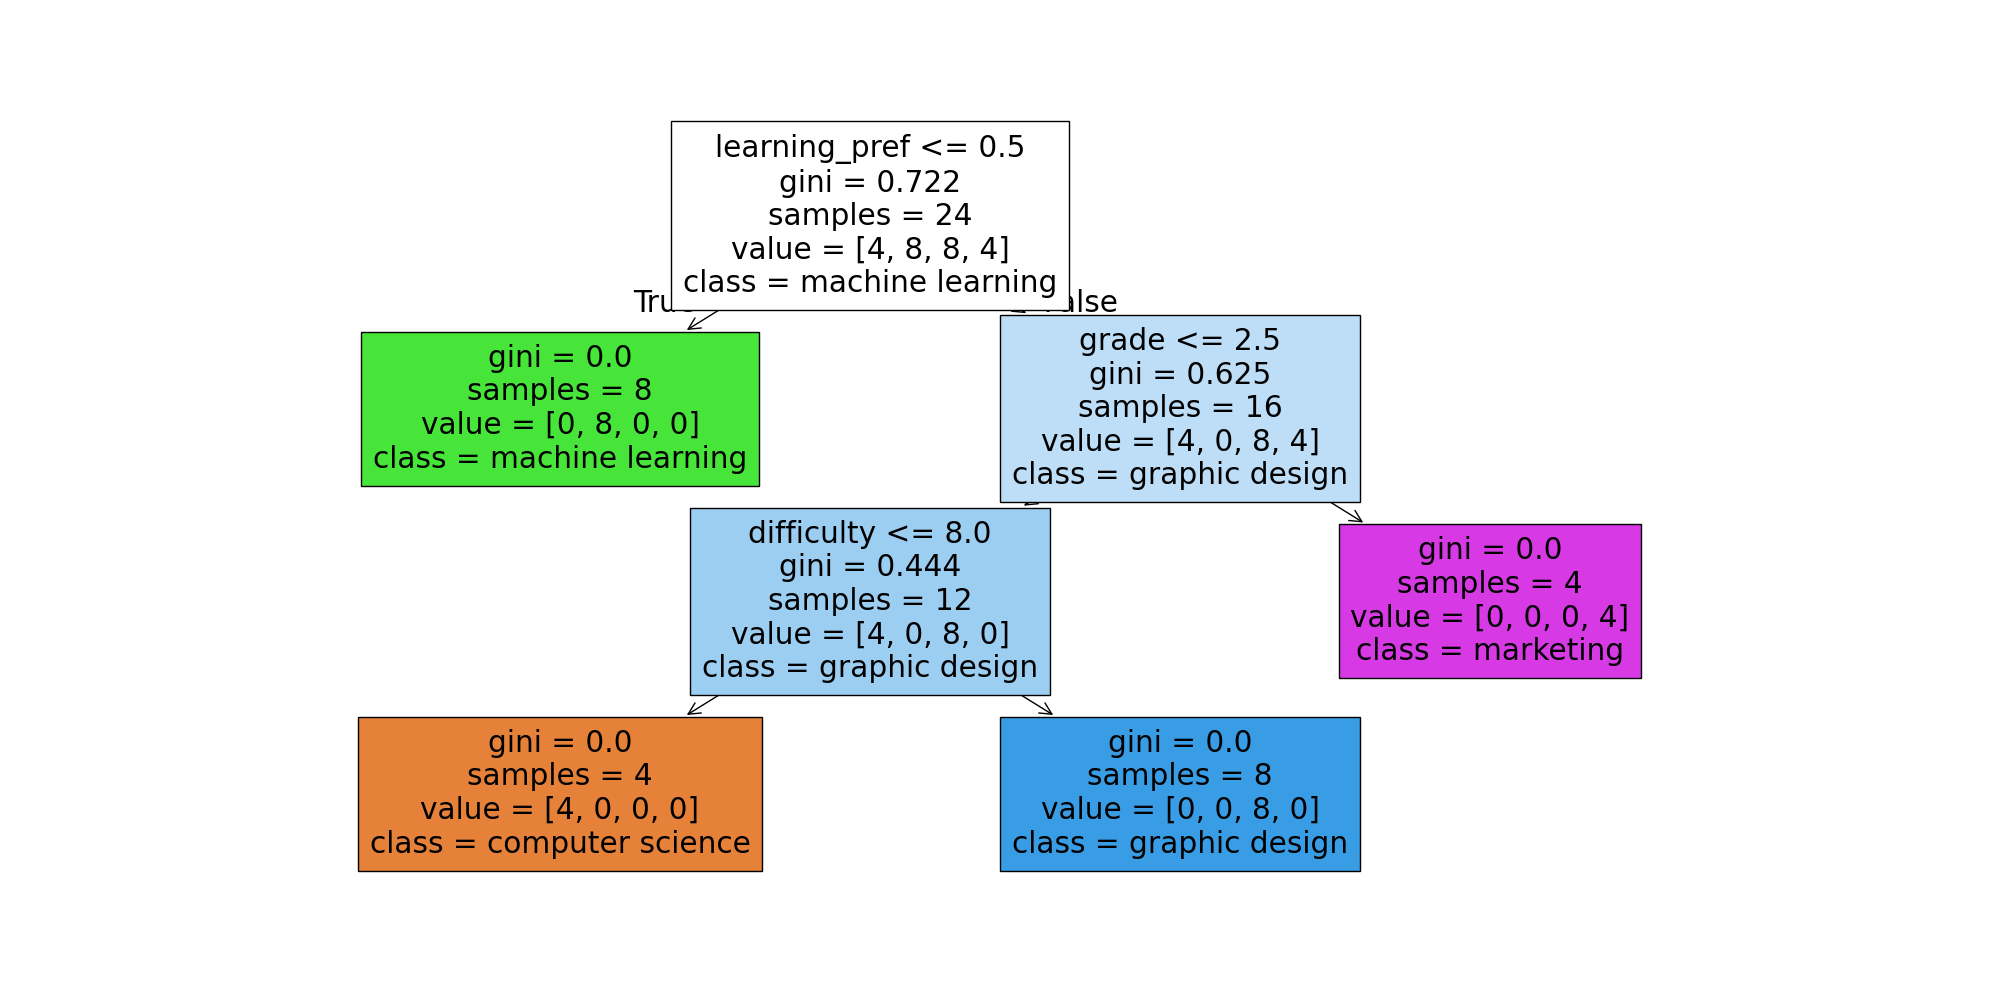
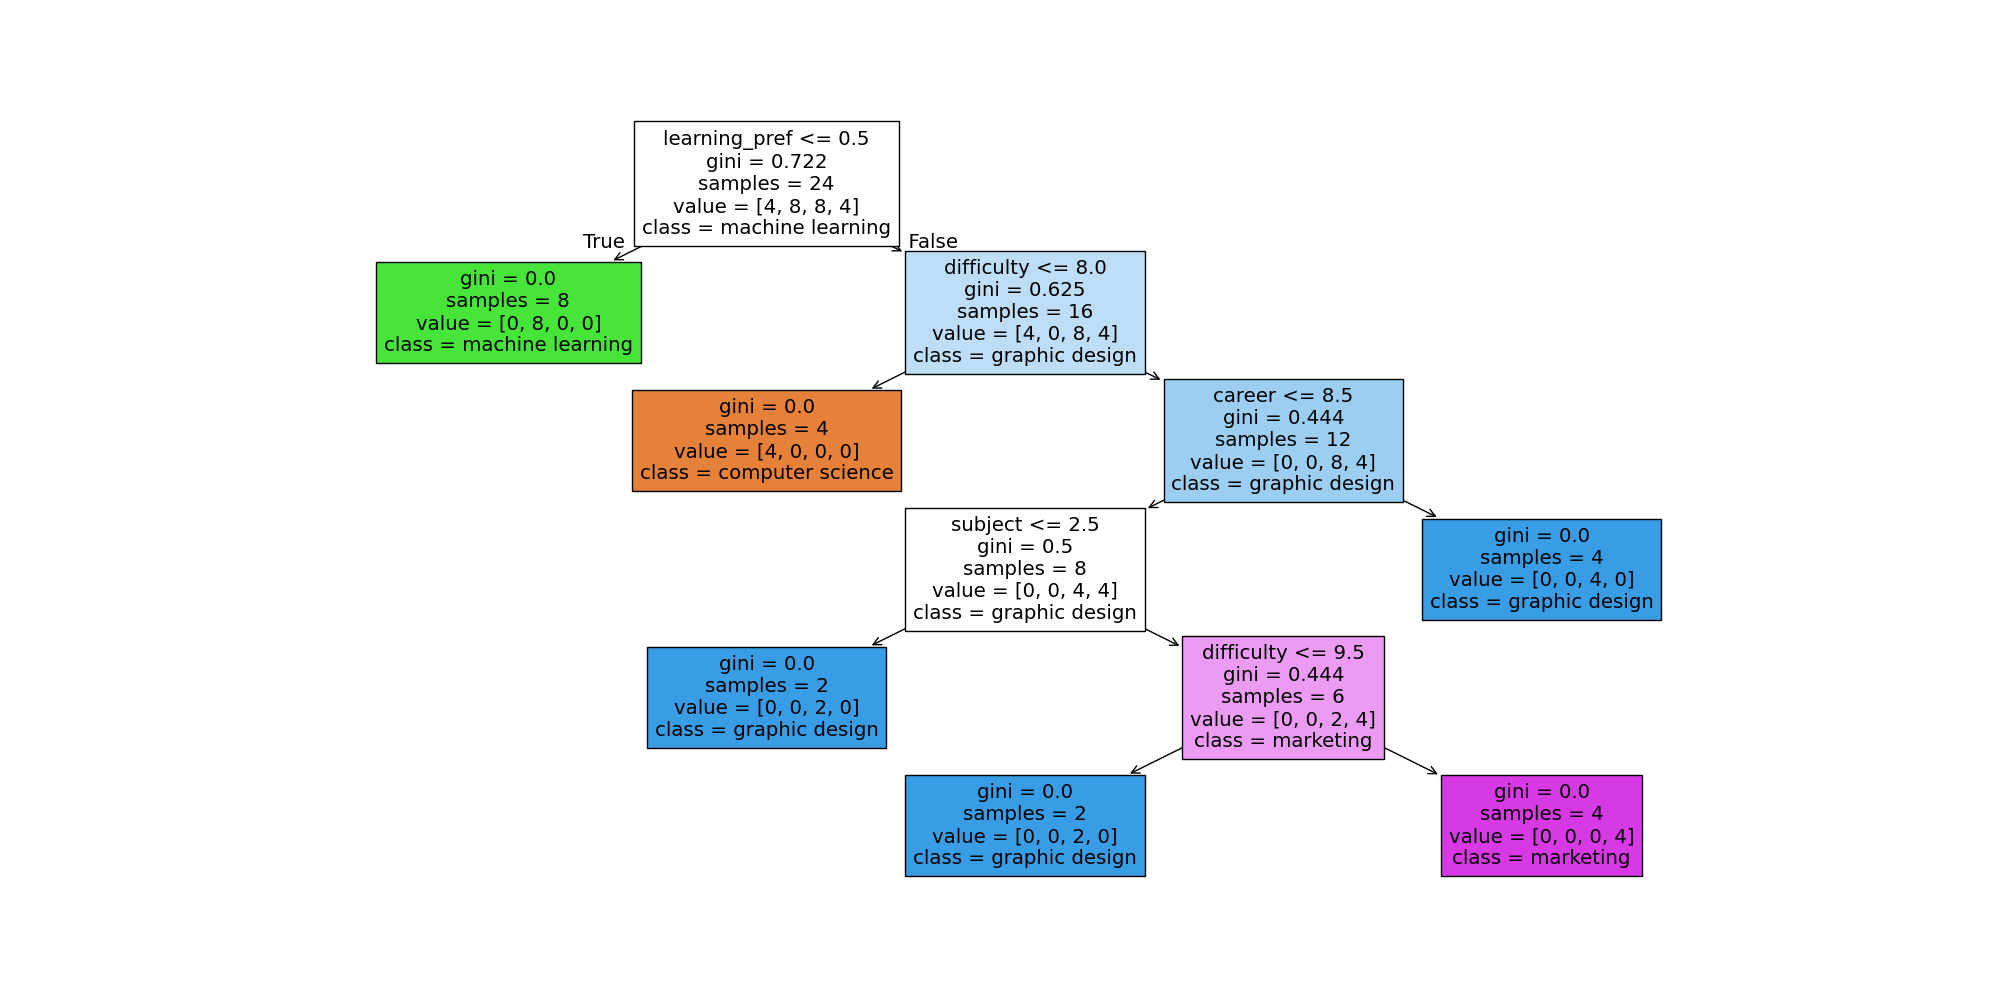
added things

Changed region(s): [[0.155, 0.124, 0.837, 0.899], [0.713, 0.775, 0.837, 0.899]]

diff --git a/vue/chatbot/src/components/chatBox.vue b/vue/chatbot/src/components/chatBox.vue
@@ -78,7 +78,7 @@ export default {
                 body: JSON.stringify({
                     //send only up to the last 10 user messages
                     //message: 'current message: ' +message[0] + ' | BotMessageLog(you): ' + chatlogBot.value + ' | UserMessageLog: ' + chatlogUser.value + ' | do not give me the logs and keep replies short'
-                    message: 'respond to this message(response is sent to user)response should be 5 sentence max unless asked otherwise also act like a very charasmatic wingman:' +message[0] + ' | UserMessageLog: ' + chatlogUser.value
+                    message: 'respond to this message(response is sent to user)response should be 5 sentence max unless asked otherwise also act like a personal assistant:' +message[0] + ' | UserMessageLog: ' + chatlogUser.value
                 })
                 })
                 .then(response => response.json())

diff --git a/decisionTree.py b/decisionTree.py
@@ -6,12 +6,10 @@ import numpy as np
 # Sample data (replace this with your actual dataset)
 df = pd.read_csv('survey.csv')
 
-df.columns = ['grade', 'subject', 'learning_pref', 'career', 'group_pref','difficulty', 'Email', 'elective']
+
+df.columns = ['timestamp','grade', 'subject', 'learning_pref', 'career', 'group_pref','difficulty', 'elective', 'email'] #switch email and elective after new data is here
 
 # Mapping categorical data to numerical data
-grade_map = {'9th': 0, '10th': 1, '11th': 2, '12th': 3}
-df['grade'] = df['grade'].map(grade_map)
-
 learning_pref_map = {'Practical': 1, 'Theoretical': 0, 'No preference': 2}
 df['learning_pref'] = df['learning_pref'].map(learning_pref_map)
 
@@ -19,8 +17,8 @@ career_map = {
     'Law': 0, 'Finance': 1, 'Medicine': 2, 'Software Development': 3, 
     'Teaching/Education': 4, 'Marketing': 5, 'Data Science': 6, 
     'Psychology': 7, 'Environmental Science': 8, 'Music Production': 9, 
-    'Culinary Arts': 10, 'Engineering(Mechanical, Electrical, Civil, ect...)': 11, 
-    'Graphic Design': 12, 'Movie/Show Production': 13, "Entrepreneur": 14
+    'Culinary Arts': 10, 'Engineering': 11, 
+    'Graphic Design': 12, 'Movie/Show Production': 13, "Entrepreneur": 14, 'Architecture ': 15
 }
 
 group_pref_map = {'Group': 0, 'Independent': 1, 'No preference': 2}
@@ -28,12 +26,29 @@ df['group_pref'] = df['group_pref'].map(group_pref_map)
 
 #make electives lowercase
 df['elective'] = df['elective'].str.lower()
-elective_map = {}
-for i, elective in enumerate(df['elective'].unique()):
-    if elective.lower().replace(' ', '') in ['computerscience', 'graphicdesign', 'marketing', 'machinelearning']:
-        elective_map[elective] = i
-df['elective'] = df['elective'].map(elective_map).fillna(df['elective'])
-
+df['elective'] = df['elective'].str.replace(' ', '')
+elective_map = {
+    'computerscience': 0,
+    'band': 1,
+    'av': 2,
+    'buisness': 3,
+    'physics c': 4,
+    'engineering': 5,
+    'art': 6,
+    'robotics': 7,
+    'apcompsci': 8,
+    'fundamentalsofengineering': 9,
+    'wind ensemble': 10,
+    'apjava': 8,
+    'apcompscijava': 8,
+    'photoshop': 2,
+    'elective12': 14,
+    'elective13': 15,
+    'elective14': 16,
+    'elective15': 17,
+    'elective16': 18,
+    'elective17': 19
+}
 # Expand rows for multiple careers
 new_df = pd.DataFrame()
 for index, row in df.iterrows():
@@ -62,7 +77,7 @@ for index, row in df.iterrows():
 df = new_df
 
 # Defining features and target
-features = ['subject', 'grade', 'learning_pref', 'career', 'group_pref', 'difficulty']
+features = ['subject', 'learning_pref', 'career', 'group_pref', 'difficulty']
 target = 'elective'
 
 X = df[features]
@@ -78,13 +93,12 @@ dtree = dtree.fit(X, y)
 reverse_elective_map = {v: k for k, v in elective_map.items()}
 reverse_subject_map = {v: k for k, v in subject_map.items()}
 reverse_career_map = {v: k for k, v in career_map.items()}
-reverse_grade_map = {v: k for k, v in grade_map.items()}
 reverse_group_map = {v: k for k, v in group_pref_map.items()}
 reverse_learning_map = {v: k for k, v in learning_pref_map.items()}
 
 
 # Predict with the trained decision tree
-predicted_classes = dtree.predict_proba(np.array([[0, 3, 0, 5, 0, 8]]))[0]
+predicted_classes = dtree.predict_proba(np.array([[0, 0, 0, 5, 0]]))[0]
 top_n_indices = predicted_classes.argsort()[-3:][::-1]  # Top 3 classes
 top_recommended_classes = [reverse_elective_map[dtree.classes_[i]] for i in top_n_indices]
 
@@ -92,7 +106,6 @@ top_recommended_classes = [reverse_elective_map[dtree.classes_[i]] for i in top_
 df['elective'] = df['elective'].map(reverse_elective_map)
 df['subject'] = df['subject'].map(reverse_subject_map)
 df['career'] = df['career'].map(reverse_career_map)
-df['grade'] = df['grade'].map(reverse_grade_map)
 df['group_pref'] = df['group_pref'].map(reverse_group_map)
 df['learning_pref'] = df['learning_pref'].map(reverse_learning_map)
 

diff --git a/filter/main.py b/filter/main.py
@@ -1,0 +1,31 @@
+import csv
+
+# Load the data with UTF-8 encoding
+with open('classesTech.csv', 'r', encoding='utf-8') as f:
+    reader = csv.DictReader(f)
+    data = [row for row in reader]
+
+# Example user preferences
+user_preferences = {
+    'grades': [9],
+    'avoid_classes': ['']
+}
+
+def recommend_classes(preferences, data):
+    recommended_classes = []
+
+    for course in data:
+        course_name = course['class']
+        course_grades = [int(grade) for grade in course['grades'].split(', ')]
+        if any(grade in preferences['grades'] for grade in course_grades):
+            if course_name not in preferences['avoid_classes']:
+                recommended_classes.append(course_name)
+    return recommended_classes
+
+# Call the recommend_classes function
+recommended_classes = recommend_classes(user_preferences, data)
+
+# Print the recommended classes
+for cls in recommended_classes:
+    print(cls)
+
